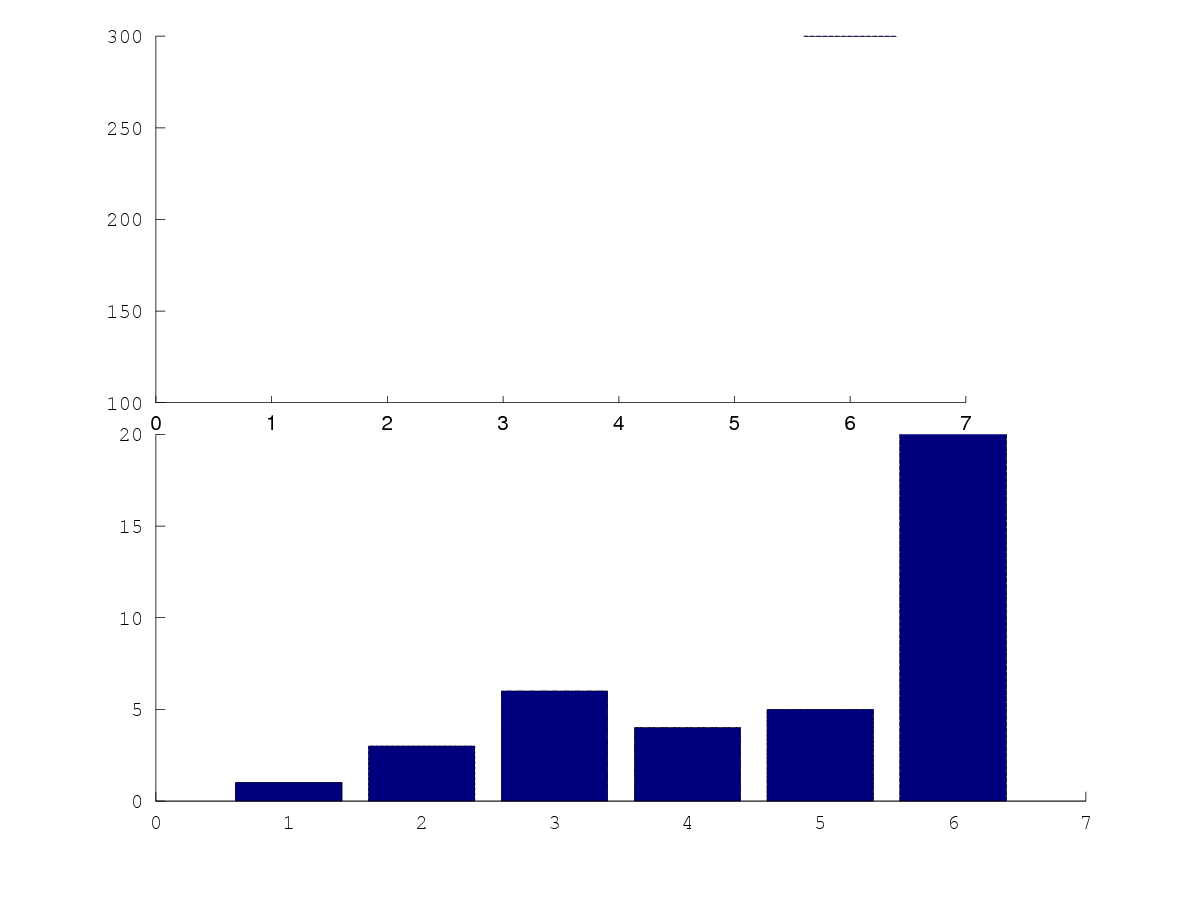
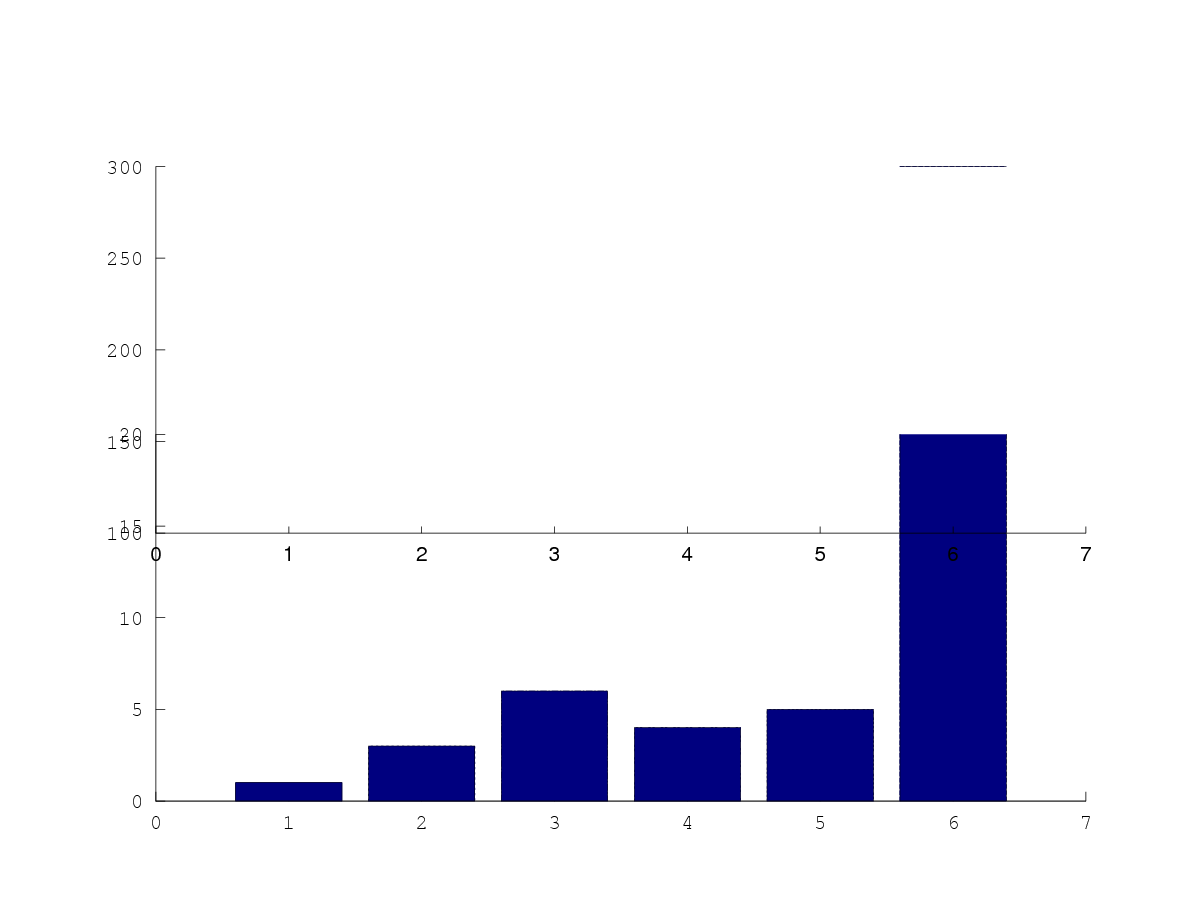
break_axis.m

diff --git a/break_axis.m b/break_axis.m
@@ -19,7 +19,8 @@ box off;
 
 % create axis2
 %a2=axes('position',[p0(1)+p0(3)/2+.025 p0(2) p0(3)/2-.025 p0(4)]);
-a2=axes('position',[p0(1) p0(4)/2+.145 p0(3)-0.1 p0(4)/2])
+%a2=axes('position',[p0(1) p0(4)/2+.145 p0(3) p0(4)/2])
+a2=axes('position',[p0(1) p0(4)/2 p0(3) p0(4)/2])
 %barh(a);
 bar(a);
 
